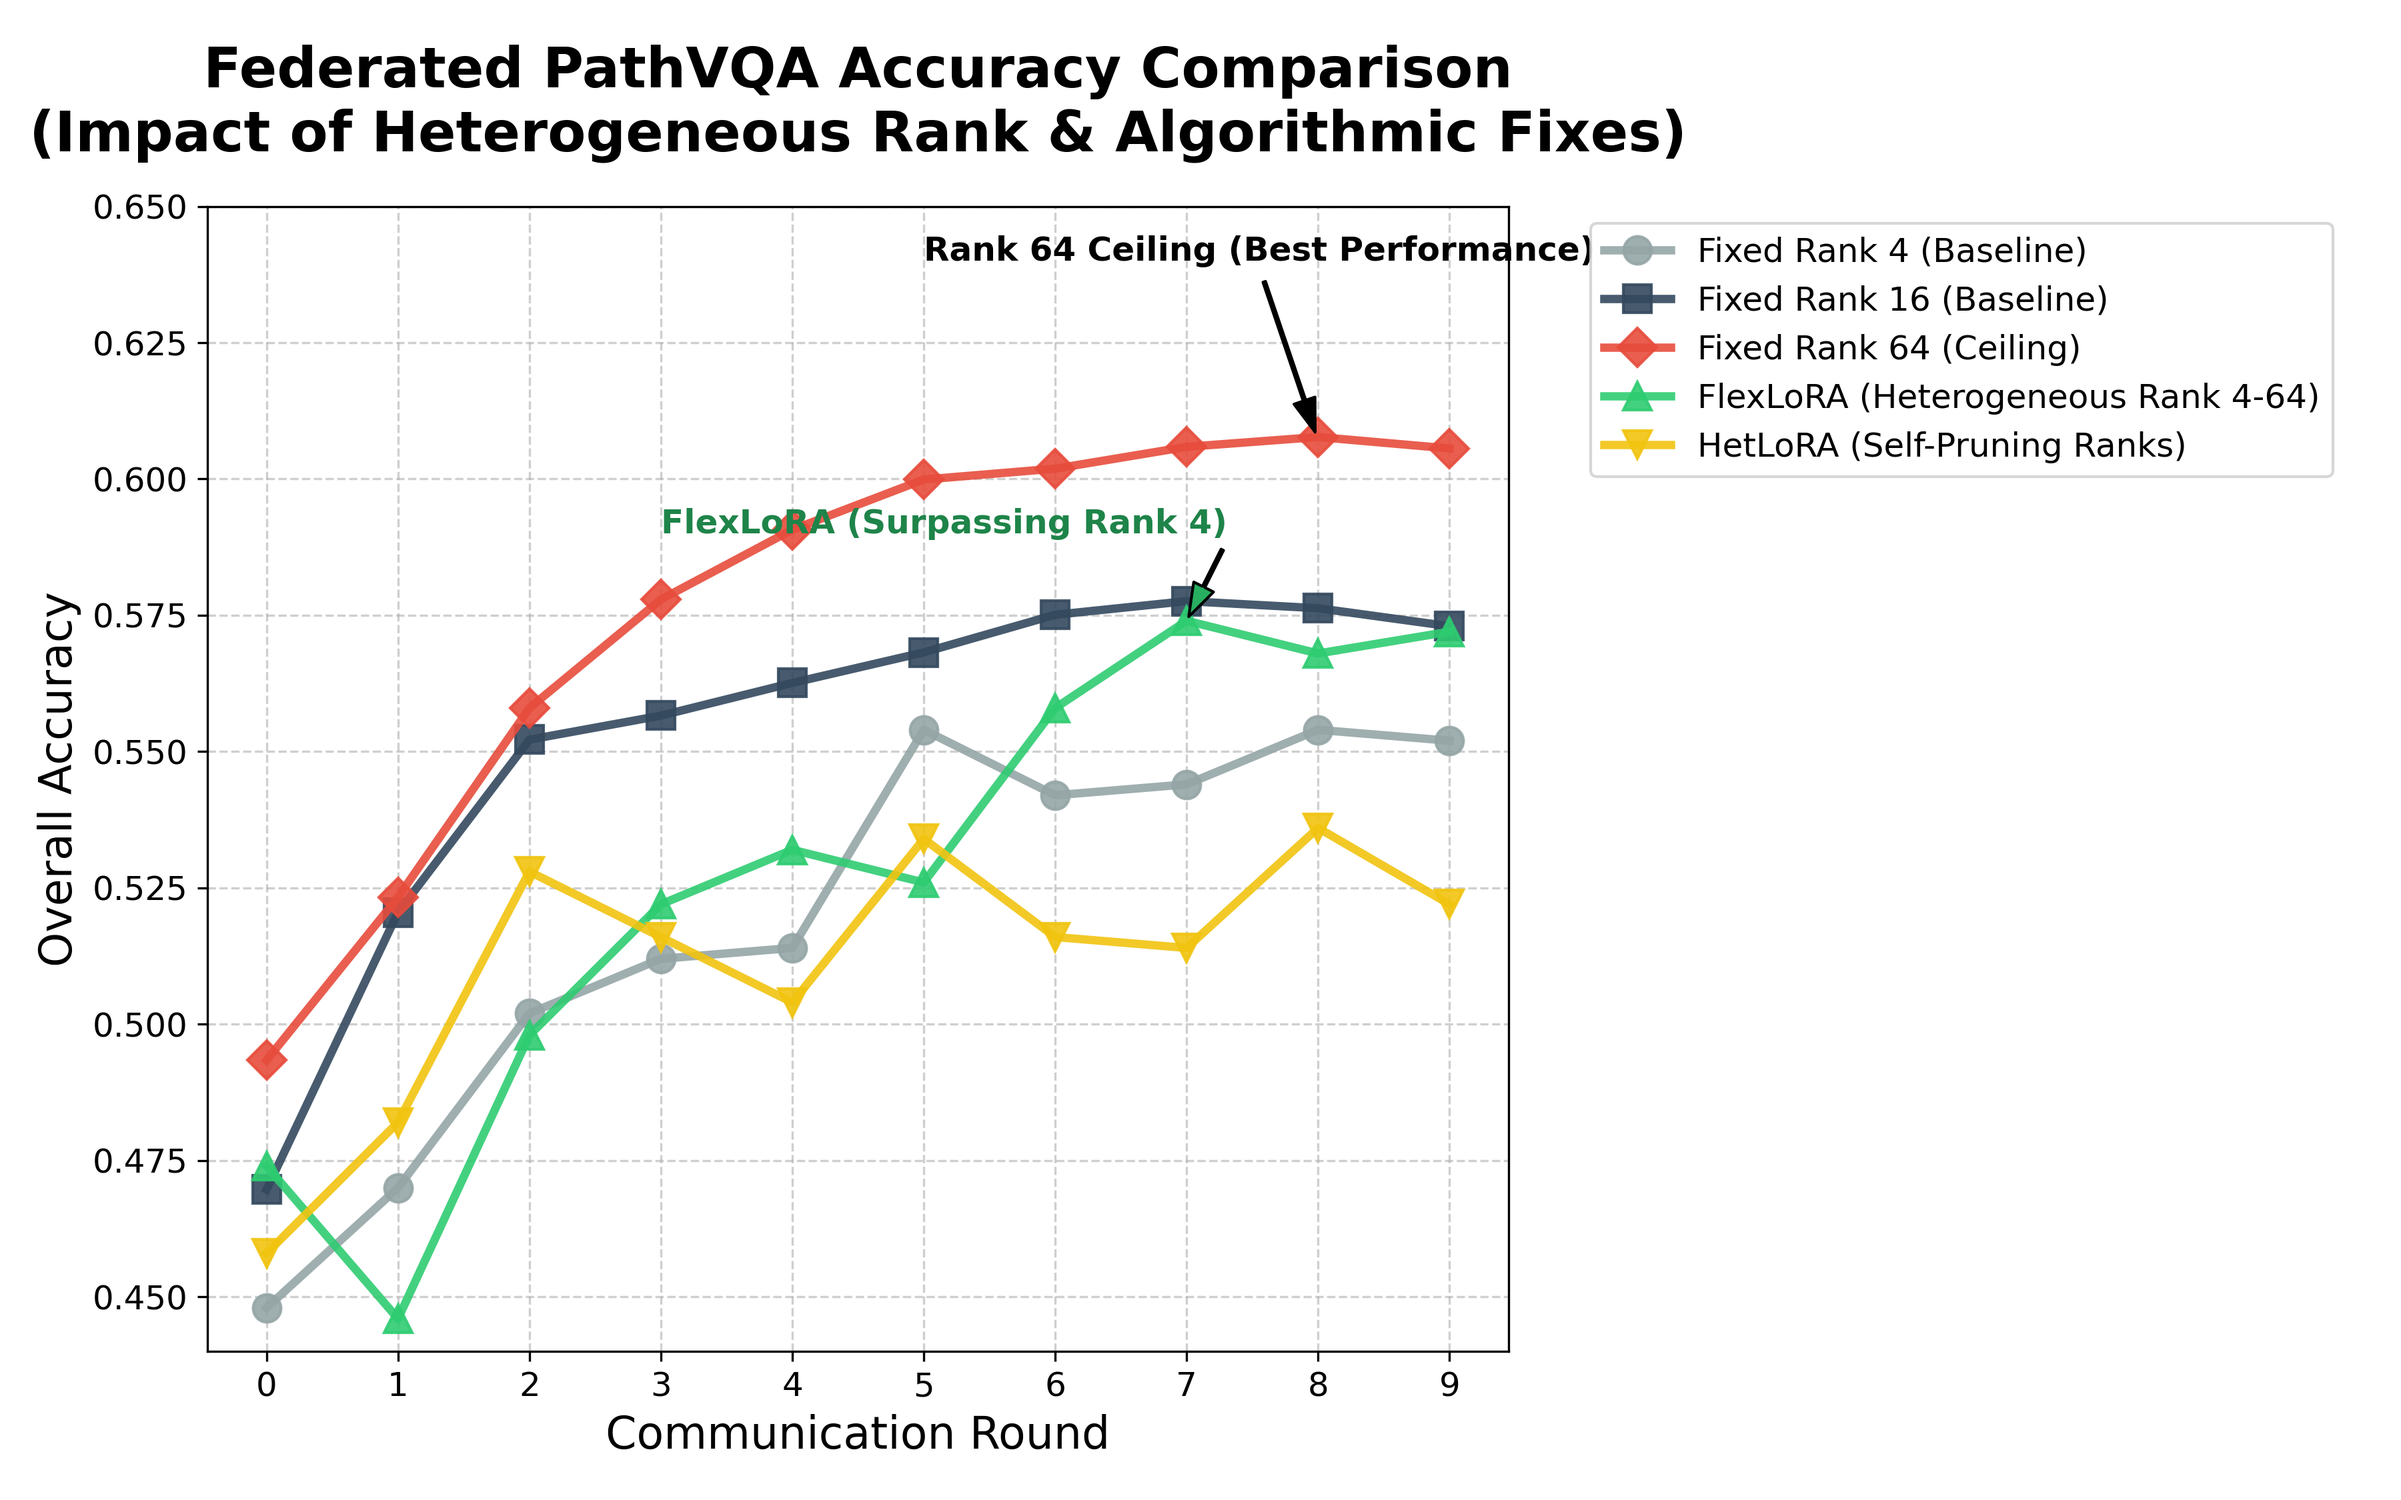
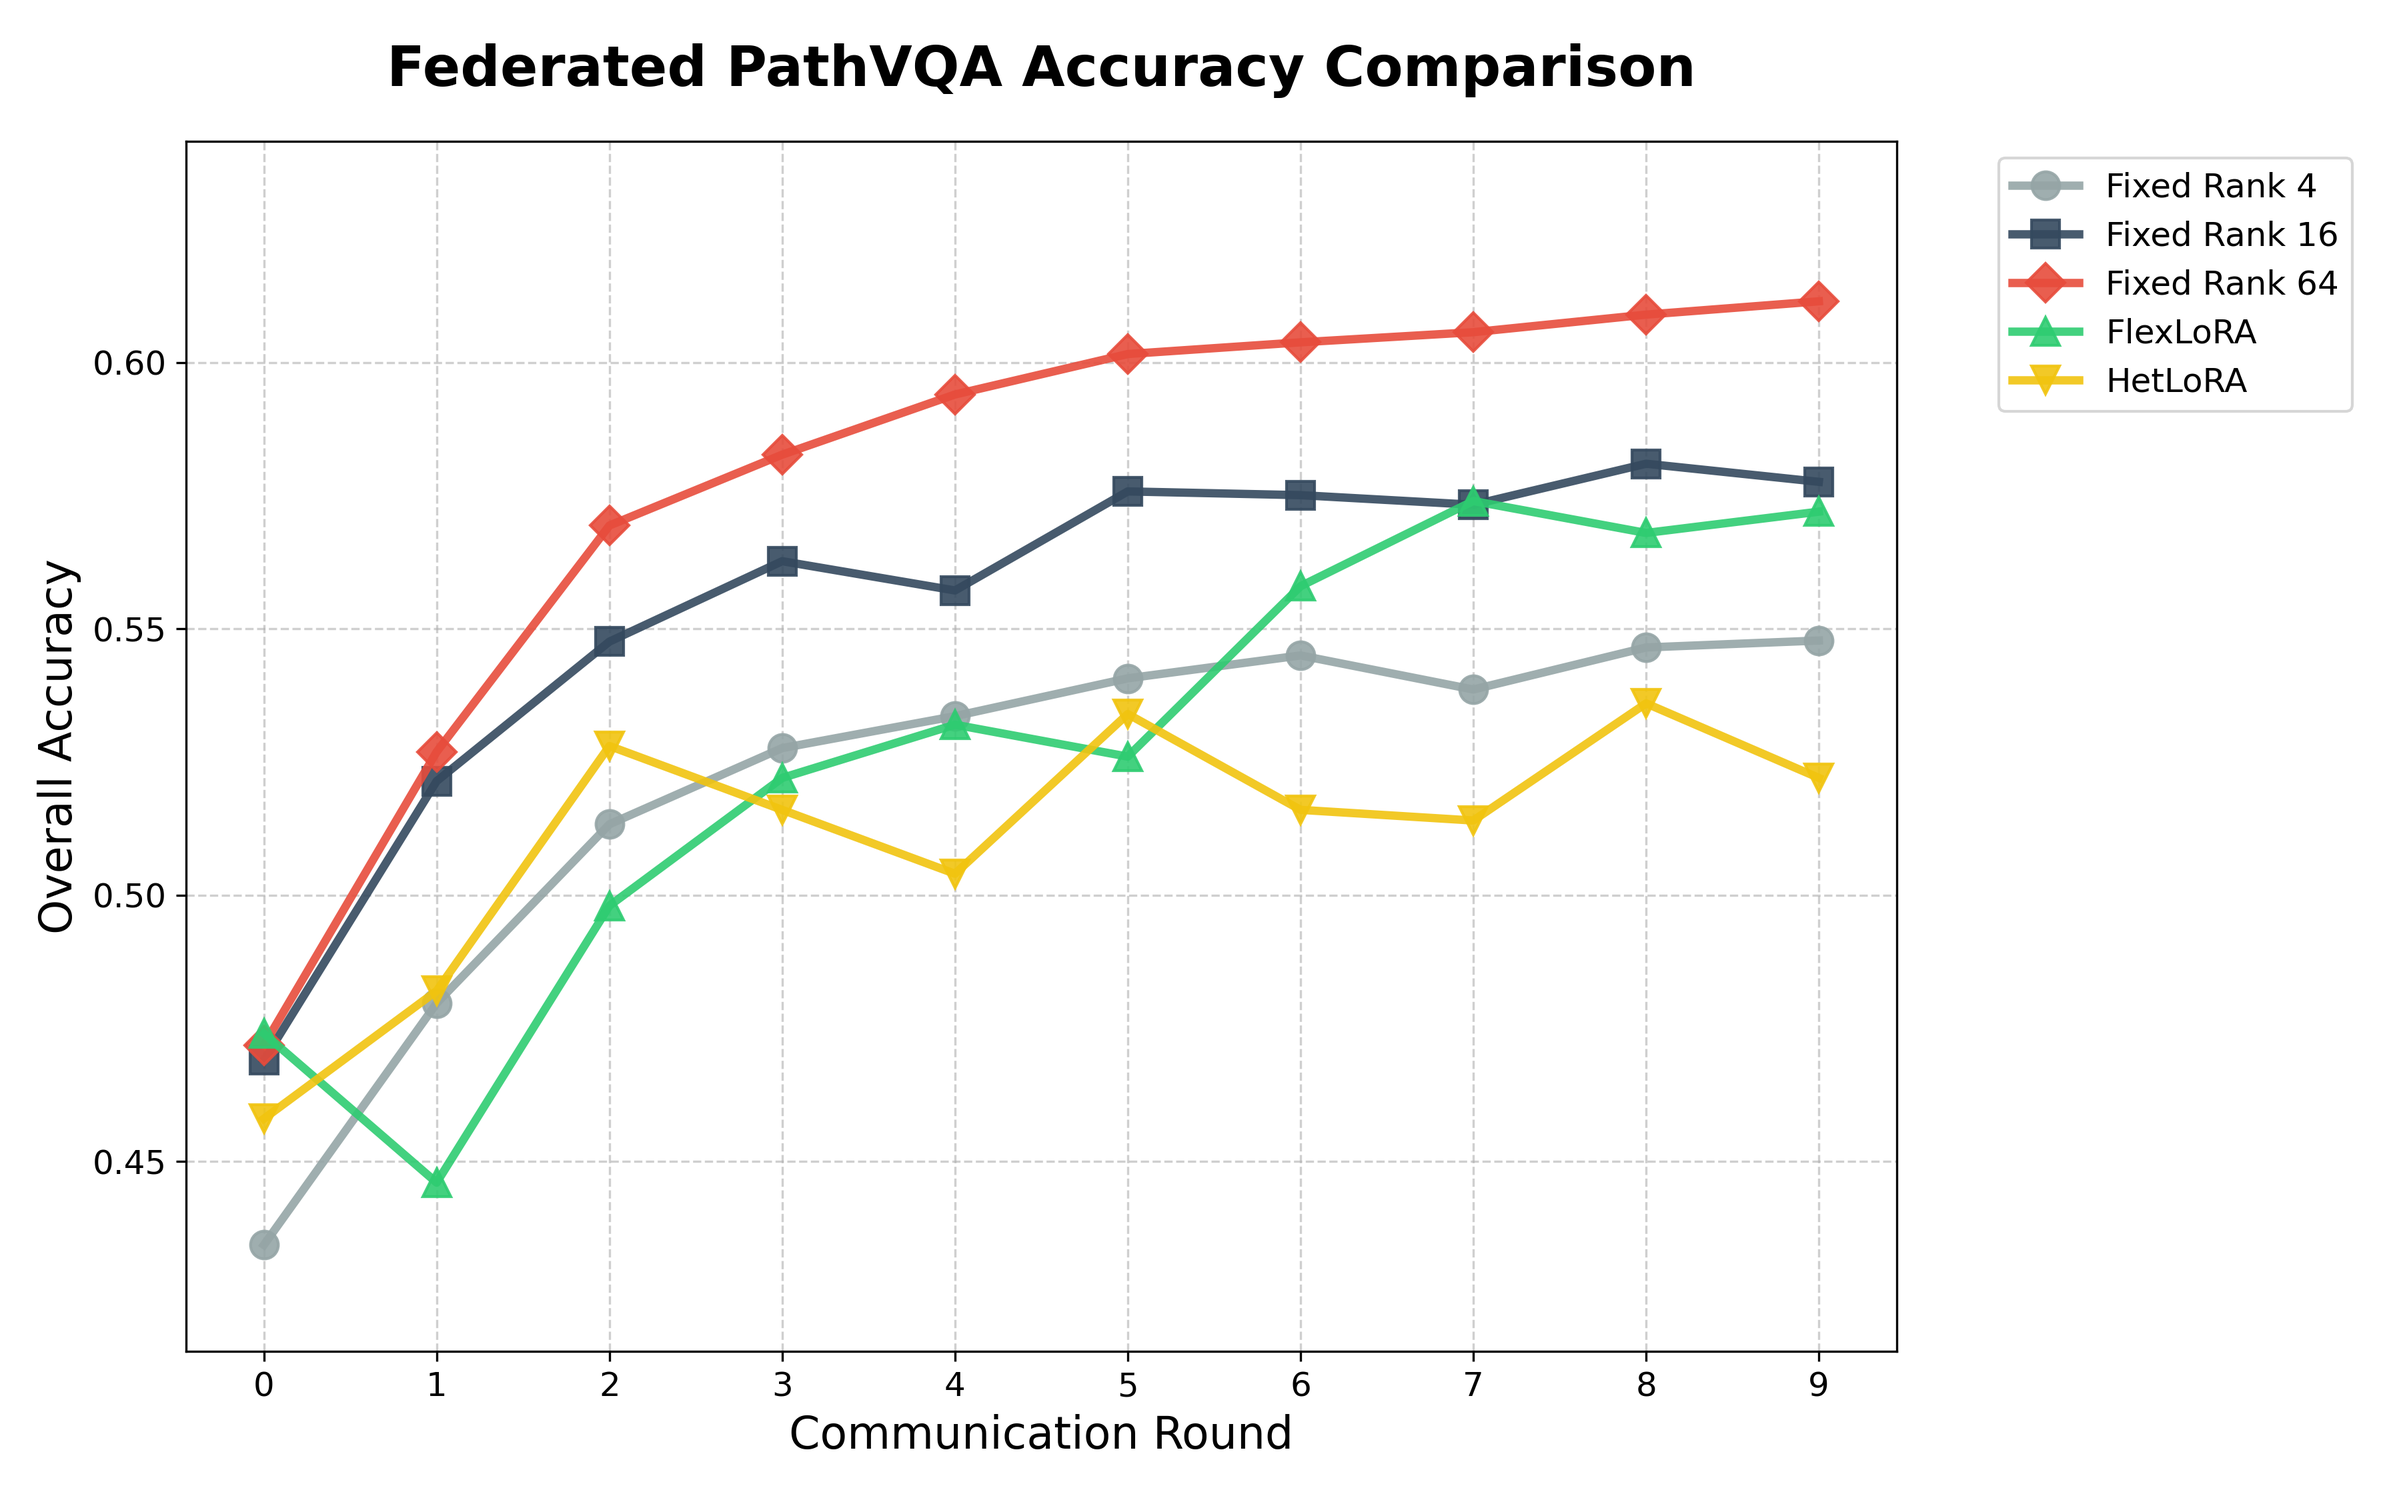
refactor: update accuracy results and simplify plotting script visualization

diff --git a/plot_results.py b/plot_results.py
@@ -1,6 +1,5 @@
 import csv
 import matplotlib.pyplot as plt
-import numpy as np
 
 def plot_results():
     # Setting a professional style with matplotlib defaults
@@ -31,11 +30,11 @@ def plot_results():
     
     # Map config names to more readable ones
     name_map = {
-        'fed_sim_flexlora': 'FlexLoRA (Heterogeneous Rank 4-64)',
-        'fed_sim_rank4': 'Fixed Rank 4 (Baseline)',
-        'fed_sim_rank16': 'Fixed Rank 16 (Baseline)',
-        'fed_sim_rank64': 'Fixed Rank 64 (Ceiling)',
-        'fed_sim_hetlora': 'HetLoRA (Self-Pruning Ranks)'
+        'fed_sim_flexlora': 'FlexLoRA',
+        'fed_sim_rank4': 'Fixed Rank 4',
+        'fed_sim_rank16': 'Fixed Rank 16',
+        'fed_sim_rank64': 'Fixed Rank 64',
+        'fed_sim_hetlora': 'HetLoRA'
     }
     
     # Create the figure
@@ -58,6 +57,7 @@ def plot_results():
         'fed_sim_hetlora': 'v'
     }
 
+    plotted = []
     for config in ['fed_sim_rank4', 'fed_sim_rank16', 'fed_sim_rank64', 'fed_sim_flexlora', 'fed_sim_hetlora']:
         # Filter and sort by round
         subset = [d for d in data if d['config'] == config]
@@ -77,30 +77,23 @@ def plot_results():
                  linewidth=3, 
                  color=colors[config],
                  alpha=0.9)
+        plotted.append((config, rounds, accs))
 
-    plt.title('Federated PathVQA Accuracy Comparison\n(Impact of Heterogeneous Rank & Algorithmic Fixes)', 
+    plt.title('Federated PathVQA Accuracy Comparison', 
               fontsize=20, pad=20, fontweight='bold')
     plt.xlabel('Communication Round', fontsize=16)
     plt.ylabel('Overall Accuracy', fontsize=16)
     
     plt.xticks(range(10))
-    plt.ylim(0.44, 0.65)
+    if plotted:
+        all_accs = [acc for _, _, accs in plotted for acc in accs]
+        ymin = max(0.0, min(all_accs) - 0.02)
+        ymax = min(1.0, max(all_accs) + 0.03)
+        plt.ylim(ymin, ymax)
     
     # Formatting grid and legend
     plt.grid(True, linestyle='--', alpha=0.6)
     plt.legend(bbox_to_anchor=(1.05, 1), loc='upper left', frameon=True, fontsize=12)
-    
-    # Add annotations for key findings
-    # Adjust annotation positions based on new data
-    plt.annotate('Rank 64 Ceiling (Best Performance)', 
-                 xy=(8, 0.607), xytext=(5, 0.64),
-                 arrowprops=dict(facecolor='black', shrink=0.05, width=1, headwidth=8),
-                 fontsize=12, fontweight='bold')
-                 
-    plt.annotate('FlexLoRA (Surpassing Rank 4)', 
-                 xy=(7, 0.574), xytext=(3, 0.59),
-                 arrowprops=dict(facecolor='#27ae60', shrink=0.05, width=1, headwidth=8),
-                 fontsize=12, color='#1e8449', fontweight='bold')
 
     plt.tight_layout()
     plt.savefig('federated_accuracy_comparison.png', dpi=300)
